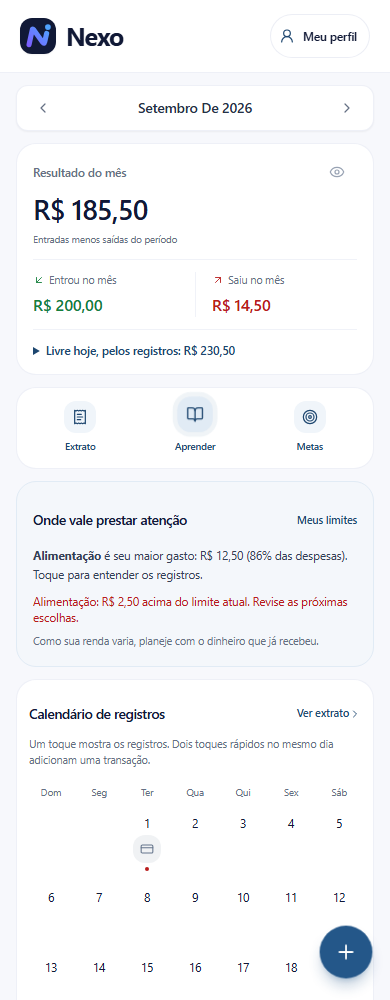
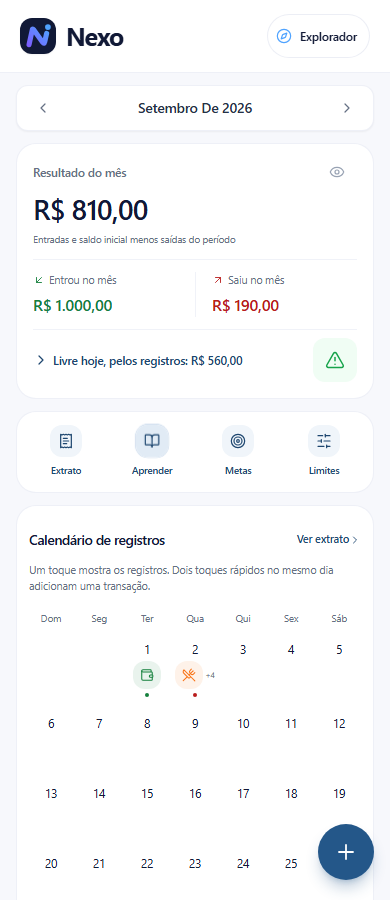
feat: add spending alert functionality with tests
- Implemented spendingAlert function to evaluate budget limits and available funds.
- Added logic to categorize alerts into 'red', 'yellow', and 'green' based on spending.
- Created unit tests to validate the behavior of spendingAlert under various scenarios.

diff --git a/src/pages/Dashboard.tsx b/src/pages/Dashboard.tsx
@@ -1,11 +1,12 @@
 import { ExpenseDonut } from '@/components/ui/ExpenseDonut';
-import { FOCUS_LABELS } from '@/lib/personalization';
+import { Dialog } from '@/components/ui/Dialog';
+import { spendingAlert } from '@/lib/spendingAlert';
 import { Link } from 'react-router-dom';
 import { recordedMoney, spendingSummary } from '@/lib/financialSummary';
 import { SpendingCalendar } from '@/components/ui/SpendingCalendar';
 import { useMemo, useState } from 'react';
 import { useNavigate, useSearchParams } from 'react-router-dom';
-import { ArrowDownLeft, ArrowUpRight, ChartPie, BookOpen, ChevronRight, Eye, EyeOff, ReceiptText, Target } from 'lucide-react';
+import { ArrowDownLeft, ArrowUpRight, ChartPie, TriangleAlert, SlidersHorizontal, BookOpen, ChevronRight, Eye, EyeOff, ReceiptText, Target } from 'lucide-react';
 import { Layout } from '@/components/ui/Layout';
 import { QuickAddModal } from '@/components/ui/QuickAddModal';
 import { FAB } from '@/components/ui/FAB';
@@ -18,17 +19,20 @@ import type { CategoryId, TransactionType } from '@/types';
 
 export function Dashboard() {
   const [registrationDate, setRegistrationDate] = useState<string | undefined>();
+  const [showInsights, setShowInsights] = useState(false);
   const [showAdd, setShowAdd] = useState(false);
   const [hideBalance, setHideBalance] = useState(false);
   const [params, setParams] = useSearchParams();
   const navigate = useNavigate();
-  const { transactions, goals, budgets, openingBalance, incomePattern, preferences, plannedExpenses, creditCards } = useStore();
+  const { transactions, goals, budgets, openingBalance, incomePattern, plannedExpenses, creditCards } = useStore();
   const monthParam = params.get('month');
   const selectedMonth = useMemo(() => parseMonthKey(monthParam), [monthParam]);
   const month = getMonthKey(selectedMonth);
   const view = useMemo(() => getTransactionView(transactions, { month: selectedMonth }), [transactions, selectedMonth]);
   const available = recordedMoney(transactions, goals, openingBalance);
   const summary = spendingSummary(transactions, budgets, selectedMonth);
+  const alert = spendingAlert(available.available, summary.categories, budgets);
+  const alertColor = { red: 'text-red-600 bg-red-50', yellow: 'text-amber-600 bg-amber-50', green: 'text-green-600 bg-green-50' }[alert.level];
   const money = (value: number) => hideBalance ? '••••' : formatCurrency(value);
   function openStatement(filter?: TransactionType, categoria?: CategoryId) {
     navigate(`/gastos?month=${month}`, { state: { filter: filter ?? 'all', categoria: categoria ?? null, month } });
@@ -45,15 +49,16 @@ export function Dashboard() {
         <button type="button" onClick={() => openStatement('receita')} className="min-h-11 pr-3 text-left"><span className="flex items-center gap-1 text-[11px] text-ink-500"><ArrowDownLeft className="h-3 w-3 text-income" />Entrou no mês</span><span className="mt-1 block text-base font-semibold text-income" data-month-income>{money(view.income)}</span></button>
         <button type="button" onClick={() => openStatement('despesa')} className="min-h-11 pl-4 text-left"><span className="flex items-center gap-1 text-[11px] text-ink-500"><ArrowUpRight className="h-3 w-3 text-expense" />Saiu no mês</span><span className="mt-1 block text-base font-semibold text-expense" data-month-expenses>{money(view.expenses)}</span></button>
       </div>
-      <details className="mt-3 border-t border-ink-100 pt-3" aria-label="Dinheiro registrado"><summary className="cursor-pointer text-xs font-semibold text-primary-700">Livre hoje, pelos registros: {money(available.available)}</summary><p className="mt-2 text-[11px] leading-relaxed text-ink-500">Total registrado: {money(available.total)} · Reservado em metas: {money(available.reserved)}. Inclui todos os meses até hoje e o saldo inicial, sem descontar contas futuras.</p>{available.available < 0 && <p className="text-xs text-expense">Saídas e reservas superam as entradas. Confira seus registros antes de reservar mais.</p>}{(plannedExpenses.length > 0 || creditCards.length > 0) && <Link to="/perfil" className="text-link text-[10px]">Há compromissos antigos arquivados. Revise no perfil.</Link>}</details>
+      <div className="mt-3 flex items-center gap-2 border-t border-ink-100 pt-2">
+        <button type="button" aria-haspopup="dialog" onClick={() => setShowInsights(true)} className="flex min-h-11 min-w-0 flex-1 items-center gap-1 text-left text-xs font-semibold text-primary-700"><ChevronRight className="h-4 w-4 shrink-0" /><span>Livre hoje, pelos registros: {money(available.available)}</span></button>
+        <button type="button" aria-haspopup="dialog" aria-label={`Orientações: ${alert.label}`} data-alert-level={alert.level} onClick={() => setShowInsights(true)} className={`flex h-11 w-11 shrink-0 items-center justify-center rounded-xl ${alertColor}`}><TriangleAlert className="h-5 w-5" strokeWidth={1.8} /></button>
+      </div>
     </section>
 
-    <nav aria-label="Atalhos" className="my-3 grid grid-cols-3 gap-1 rounded-2xl border border-ink-200/70 bg-white p-2">
-      {[{ label: 'Extrato', icon: ReceiptText, action: () => openStatement() }, { label: 'Aprender', icon: BookOpen, action: () => navigate('/aprender') }, { label: 'Metas', icon: Target, action: () => navigate('/metas') }].map(({ label, icon: Icon, action }) => <button key={label} type="button" onClick={action} className="flex min-h-16 flex-col items-center justify-center gap-1.5 rounded-xl text-primary-700 transition-colors hover:bg-primary-50"><span className={`flex h-8 w-8 items-center justify-center rounded-xl ${label === 'Aprender' ? 'learn-shortcut bg-primary-100 ring-1 ring-primary-200' : 'bg-primary-50'}`}><Icon className="h-4 w-4" strokeWidth={1.7} /></span><span className="text-[10px] font-medium">{label}</span></button>)}
+    <nav aria-label="Atalhos" className="my-3 grid grid-cols-4 gap-1 rounded-2xl border border-ink-200/70 bg-white p-2">
+      {[{ label: 'Extrato', icon: ReceiptText, action: () => openStatement() }, { label: 'Aprender', icon: BookOpen, action: () => navigate('/aprender') }, { label: 'Metas', icon: Target, action: () => navigate('/metas') }, { label: 'Limites', icon: SlidersHorizontal, action: () => navigate('/orcamentos') }].map(({ label, icon: Icon, action }) => <button key={label} type="button" onClick={action} className="flex min-h-16 flex-col items-center justify-center gap-1.5 rounded-xl text-primary-700 transition-colors hover:bg-primary-50"><span className={`flex h-8 w-8 items-center justify-center rounded-xl ${label === 'Aprender' ? 'learn-shortcut bg-primary-100 ring-1 ring-primary-200' : 'bg-primary-50'}`}><Icon className="h-4 w-4" strokeWidth={1.7} /></span><span className="text-[10px] font-medium">{label}</span></button>)}
     </nav>
 
-    {preferences && <Link to={preferences.focus === 'save' ? '/metas' : preferences.focus === 'organize' ? '/orcamentos' : '/aprender'} className="mb-3 flex min-h-11 items-center justify-between gap-2 rounded-xl bg-primary-50 px-3 text-[11px] text-primary-700"><span>Seu foco: <strong>{FOCUS_LABELS[preferences.focus]}</strong></span><ChevronRight className="h-3 w-3 shrink-0" /></Link>}
-    <section className="mb-3 rounded-2xl border border-primary-100 bg-primary-50/40 p-4" aria-label="Leitura dos gastos"><div className="flex items-center justify-between gap-2"><h2 className="text-sm font-semibold">Onde vale prestar atenção</h2><Link to="/orcamentos" className="text-link text-[11px]">Meus limites</Link></div>{summary.largest ? <button type="button" onClick={() => openStatement('despesa', summary.largest.categoria)} className="mt-1 w-full text-left text-xs leading-relaxed text-ink-700"><strong>{CATEGORIES[summary.largest.categoria].nome}</strong> é seu maior gasto: {money(summary.largest.valor)}{!hideBalance && ` (${summary.largestPercent}% das despesas)`}. Toque para entender os registros.</button> : <p className="mt-1 text-xs text-ink-500">Registre os gastos que já aconteceram para descobrir para onde o dinheiro vai.</p>}{summary.over.slice(0, 2).map((item) => <p key={item.categoria} className="mt-2 text-xs text-expense">{CATEGORIES[item.categoria].nome}: {money(item.excess)} acima do limite atual. Revise as próximas escolhas.</p>)}{summary.largest && summary.over.length === 0 && <p className="mt-2 text-[11px] text-ink-500">Um gasto alto não é necessariamente ruim. Veja o que é necessário e o que você pode ajustar.</p>}{incomePattern === 'irregular' && <p className="mt-2 text-[11px] text-ink-500">Como sua renda varia, planeje com o dinheiro que já recebeu.</p>}</section>
     <div className="space-y-3">
       <SpendingCalendar key={month} month={selectedMonth} items={view.items} hidden={hideBalance} onViewStatement={() => openStatement()} onAdd={(date) => { setRegistrationDate(date); setShowAdd(true); }} />
       <section aria-label="Gastos por categoria" className="rounded-2xl border border-ink-200/70 bg-white px-4 py-2">
@@ -62,6 +67,11 @@ export function Dashboard() {
       </section>
     </div>
 
+    {showInsights && <Dialog title="Seu dinheiro e orientações" onClose={() => setShowInsights(false)}>
+      <p className="text-xs font-semibold text-primary-700">Livre hoje, pelos registros</p><p className="mt-1 text-2xl font-semibold">{money(available.available)}</p><p className="mt-2 text-[11px] leading-relaxed text-ink-500">Total registrado: {money(available.total)} · Reservado em metas: {money(available.reserved)}. Inclui todos os meses até hoje e o saldo inicial, sem descontar contas futuras.</p>{available.available < 0 && <p className="text-xs text-expense">Saídas e reservas superam as entradas. Confira seus registros antes de reservar mais.</p>}{(plannedExpenses.length > 0 || creditCards.length > 0) && <Link to="/perfil" className="text-link text-[10px]">Há compromissos antigos arquivados. Revise no perfil.</Link>}      <div className={`my-4 flex items-center gap-2 rounded-xl p-3 text-xs font-semibold ${alertColor}`}><TriangleAlert className="h-5 w-5 shrink-0" />{alert.label}</div>
+      <p className="mb-3 text-[11px] text-ink-500">Orientações para {selectedMonth.toLocaleDateString('pt-BR', { month: 'long', year: 'numeric' })}. O valor livre considera todos os registros até hoje.</p>
+      {alert.level === 'yellow' && alert.near.map((item) => <p key={item.categoria} className="mb-3 text-xs text-amber-700">{CATEGORIES[item.categoria].nome}: você já usou pelo menos 80% do limite mensal.</p>)}    <section className="mb-3 rounded-2xl border border-primary-100 bg-primary-50/40 p-4" aria-label="Leitura dos gastos"><div className="flex items-center justify-between gap-2"><h2 className="text-sm font-semibold">Onde vale prestar atenção</h2><Link to="/orcamentos" className="text-link text-[11px]">Meus limites</Link></div>{summary.largest ? <button type="button" onClick={() => openStatement('despesa', summary.largest.categoria)} className="mt-1 w-full text-left text-xs leading-relaxed text-ink-700"><strong>{CATEGORIES[summary.largest.categoria].nome}</strong> é seu maior gasto: {money(summary.largest.valor)}{!hideBalance && ` (${summary.largestPercent}% das despesas)`}. Toque para entender os registros.</button> : <p className="mt-1 text-xs text-ink-500">Registre os gastos que já aconteceram para descobrir para onde o dinheiro vai.</p>}{summary.over.slice(0, 2).map((item) => <p key={item.categoria} className="mt-2 text-xs text-expense">{CATEGORIES[item.categoria].nome}: {money(item.excess)} acima do limite atual. Revise as próximas escolhas.</p>)}{summary.largest && summary.over.length === 0 && <p className="mt-2 text-[11px] text-ink-500">Um gasto alto não é necessariamente ruim. Veja o que é necessário e o que você pode ajustar.</p>}{incomePattern === 'irregular' && <p className="mt-2 text-[11px] text-ink-500">Como sua renda varia, planeje com o dinheiro que já recebeu.</p>}</section>
+<p className="text-[10px] leading-relaxed text-ink-500">Verde: sem alertas detectados. Amarelo: faltam despesas registradas ou um limite chegou a 80%. Vermelho: saldo livre negativo ou limite ultrapassado. A orientação considera apenas os dados registrados.</p></Dialog>}
     <FAB onClick={() => { setRegistrationDate(undefined); setShowAdd(true); }} />
     <QuickAddModal initialDate={registrationDate} open={showAdd} onClose={() => { setShowAdd(false); }} />
   </Layout>;

diff --git a/src/lib/spendingAlert.ts b/src/lib/spendingAlert.ts
@@ -1,0 +1,9 @@
+import type { Budget, CategoryId } from '@/types';
+
+export function spendingAlert(available: number, categories: { categoria: CategoryId; valor: number }[], budgets: Budget[]) {
+  const over = categories.filter((item) => budgets.some((budget) => budget.categoria === item.categoria && Math.round(item.valor * 100) > Math.round(budget.limite * 100)));
+  const near = categories.filter((item) => budgets.some((budget) => budget.categoria === item.categoria && budget.limite > 0 && Math.round(item.valor * 100) >= Math.round(budget.limite * 80)));
+  if (available < 0 || over.length) return { level: 'red', label: 'Revise seus registros e limites', near } as const;
+  if (!categories.length || near.length) return { level: 'yellow', label: categories.length ? 'Atenção aos limites do mês' : 'Registre despesas para acompanhar', near } as const;
+  return { level: 'green', label: 'Sem alertas nos registros atuais', near } as const;
+}
